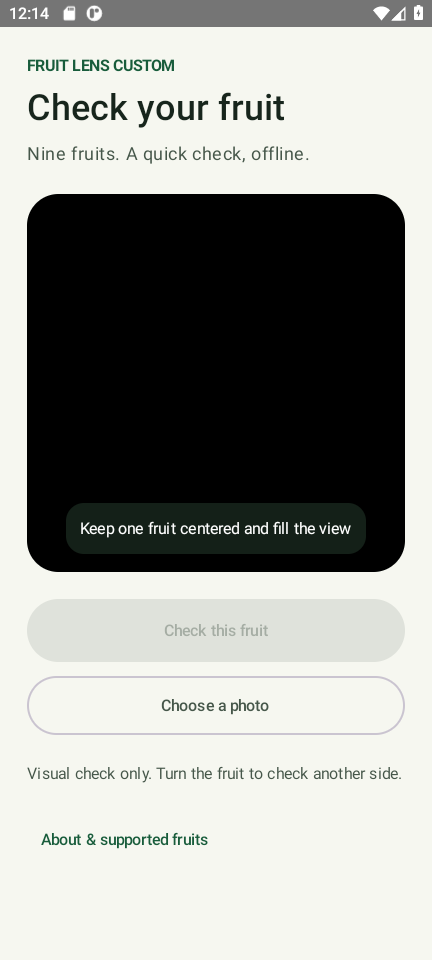
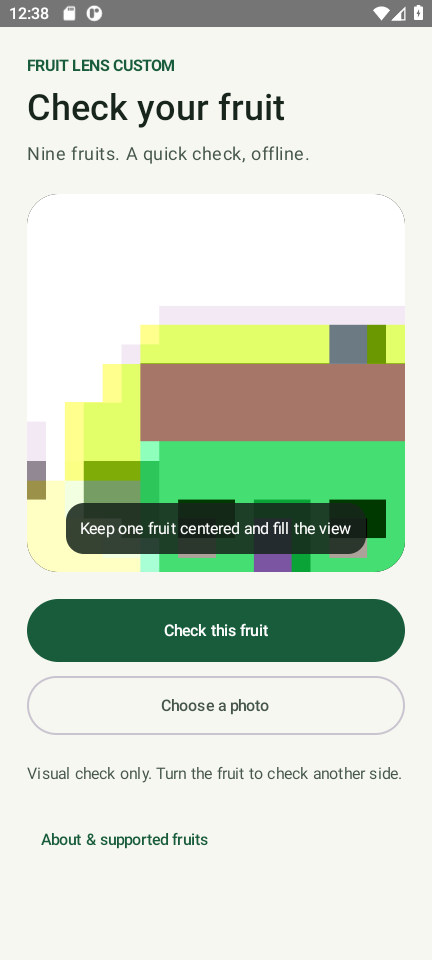
feat(android): label fruit regions and freshness

diff --git a/apps/02-fruit-lens-custom/android/app/src/main/java/com/fruitlens/app/MainActivity.kt b/apps/02-fruit-lens-custom/android/app/src/main/java/com/fruitlens/app/MainActivity.kt
@@ -30,12 +30,19 @@ import androidx.compose.ui.draw.clip
 import androidx.compose.ui.graphics.Color
 import androidx.compose.ui.graphics.asImageBitmap
 import androidx.compose.ui.graphics.drawscope.Stroke
+import androidx.compose.ui.graphics.drawscope.drawIntoCanvas
+import androidx.compose.ui.graphics.nativeCanvas
+import androidx.compose.ui.graphics.toArgb
+import androidx.compose.ui.graphics.luminance
+import androidx.compose.ui.semantics.semantics
+import androidx.compose.ui.semantics.contentDescription
 import androidx.compose.ui.geometry.Offset
 import androidx.compose.ui.geometry.Size
 import androidx.compose.ui.layout.ContentScale
 import androidx.compose.ui.platform.LocalContext
 import androidx.compose.ui.text.font.FontWeight
 import androidx.compose.ui.unit.dp
+import androidx.compose.ui.unit.sp
 import androidx.compose.ui.viewinterop.AndroidView
 import androidx.core.content.ContextCompat
 import androidx.lifecycle.compose.LocalLifecycleOwner
@@ -122,15 +129,38 @@ private fun ScannerScreen(model: ScannerViewModel = viewModel()) {
                             val photo = state.photo!!
                             Image(photo.asImageBitmap(), contentDescription = "Captured fruit photo with detected regions",
                                 contentScale = ContentScale.Fit, modifier = Modifier.fillMaxSize())
-                            Canvas(Modifier.fillMaxSize()) {
+                            Canvas(Modifier.fillMaxSize().semantics {
+                                contentDescription = state.results.joinToString("; ") {
+                                    "Fruit #${it.id}, ${it.detection.fruit}, ${FreshnessDisplay.assessment(it)}"
+                                }
+                            }) {
                                 val scale = minOf(size.width / photo.width, size.height / photo.height)
                                 val width = photo.width * scale
                                 val height = photo.height * scale
                                 val offset = Offset((size.width - width) / 2, (size.height - height) / 2)
                                 state.results.forEach {
                                     val b = it.detection.bounds
-                                    drawRect(Color(0xFF9AD5B3), offset + Offset(b.left * width, b.top * height),
+                                    val tint = Color(FreshnessDisplay.tint(it))
+                                    val origin = offset + Offset(b.left * width, b.top * height)
+                                    drawRect(tint, origin,
                                         Size(b.width() * width, b.height() * height), style = Stroke(3.dp.toPx()))
+                                    val label = "#${it.id}"
+                                    val paint = android.graphics.Paint(android.graphics.Paint.ANTI_ALIAS_FLAG).apply {
+                                        textSize = 14.sp.toPx()
+                                        typeface = android.graphics.Typeface.DEFAULT_BOLD
+                                        color = if (tint.luminance() > 0.35f) android.graphics.Color.BLACK else android.graphics.Color.WHITE
+                                    }
+                                    val padding = 6.dp.toPx()
+                                    val badgeWidth = paint.measureText(label) + 2 * padding
+                                    val badgeHeight = paint.fontSpacing + 2 * padding
+                                    val x = origin.x.coerceIn(0f, (size.width - badgeWidth).coerceAtLeast(0f))
+                                    val y = origin.y.coerceIn(0f, (size.height - badgeHeight).coerceAtLeast(0f))
+                                    drawIntoCanvas { canvas ->
+                                        val background = android.graphics.Paint(android.graphics.Paint.ANTI_ALIAS_FLAG).apply { color = tint.toArgb() }
+                                        canvas.nativeCanvas.drawRoundRect(x, y, x + badgeWidth, y + badgeHeight,
+                                            5.dp.toPx(), 5.dp.toPx(), background)
+                                        canvas.nativeCanvas.drawText(label, x + padding, y + padding - paint.fontMetrics.top, paint)
+                                    }
                                 }
                             }
                         }
@@ -153,6 +183,8 @@ private fun ScannerScreen(model: ScannerViewModel = viewModel()) {
                 }
 
                 ScanResults(state)
+                if (state.results.isNotEmpty()) Text("Match each #ID to its card. Green: Fresh · Red: Not fresh · Gray: Uncertain. Color follows model scores, not a measured freshness percentage.",
+                    style = MaterialTheme.typography.bodySmall, color = MaterialTheme.colorScheme.onSurfaceVariant)
 
                 Column(verticalArrangement = Arrangement.spacedBy(12.dp)) {
                     Button(
@@ -220,12 +252,23 @@ private fun ScanResults(state: ScannerState) {
         val agreement = result.label.fruit == detected.detection.fruit
         val confident = agreement && result.confident
         val fruit = detected.detection.fruit.replaceFirstChar { it.uppercase() }
-        val assessment = if (confident) {
-            if (result.label.condition == "fresh") "Fresh" else "Not fresh"
-        } else "Uncertain"
+        val assessment = FreshnessDisplay.assessment(detected)
         val detail = if (confident) "Visual estimate. Check another side to get a clearer view."
             else "Try a closer photo with the whole fruit in even light."
-        InfoCard("$fruit - $assessment", detail)
+        Surface(shape = RoundedCornerShape(24.dp), color = MaterialTheme.colorScheme.surface,
+            modifier = Modifier.fillMaxWidth()) {
+            Row(Modifier.padding(24.dp), horizontalArrangement = Arrangement.spacedBy(12.dp)) {
+                Surface(color = Color(FreshnessDisplay.tint(detected)), shape = RoundedCornerShape(8.dp)) {
+                    val tint = Color(FreshnessDisplay.tint(detected))
+                    Text("#${detected.id}", Modifier.padding(8.dp), fontWeight = FontWeight.Bold,
+                        color = if (tint.luminance() > 0.35f) Color.Black else Color.White)
+                }
+                Column(verticalArrangement = Arrangement.spacedBy(8.dp)) {
+                    Text("$fruit - $assessment", style = MaterialTheme.typography.titleLarge, fontWeight = FontWeight.SemiBold)
+                    Text(detail, color = MaterialTheme.colorScheme.onSurfaceVariant)
+                }
+            }
+        }
     }
 }
 

diff --git a/apps/02-fruit-lens-custom/android/app/src/androidTest/java/com/fruitlens/app/InferenceSmokeTest.kt b/apps/02-fruit-lens-custom/android/app/src/androidTest/java/com/fruitlens/app/InferenceSmokeTest.kt
@@ -9,6 +9,7 @@ import android.os.ParcelFileDescriptor
 import androidx.compose.ui.test.assertIsEnabled
 import androidx.compose.ui.test.junit4.createEmptyComposeRule
 import androidx.compose.ui.test.onNodeWithText
+import androidx.compose.ui.test.onNodeWithContentDescription
 import androidx.compose.ui.test.performClick
 import androidx.compose.ui.test.captureToImage
 import androidx.compose.ui.test.onRoot
@@ -97,12 +98,38 @@ class InferenceSmokeTest {
             // The Compose test clock must render the asynchronous worker's result before capture.
             compose.waitForIdle()
             compose.onNodeWithText("Your scan").assertExists()
+            assertEquals((1..model.state.value.results.size).toList(), model.state.value.results.map { it.id })
+            compose.onNodeWithText("#1").assertExists()
             compose.onRoot().captureToImage().asAndroidBitmap().useBitmap { screenshot ->
                 File(instrumentation.targetContext.filesDir, "smoke-result.png").outputStream().use {
                     screenshot.compress(Bitmap.CompressFormat.PNG, 100, it)
                 }
             }
             Log.i("FruitLensTest", "pipelineProcessingMs=${model.state.value.processingMs}")
+        }
+    }
+
+    @Test fun multipleFruitIdsMatchOverlayAndCards() {
+        ActivityScenario.launch(MainActivity::class.java).use { scenario ->
+            lateinit var model: ScannerViewModel
+            scenario.onActivity { model = ViewModelProvider(it)[ScannerViewModel::class.java] }
+            compose.waitUntil(timeoutMillis = 30_000) { model.state.value.ready }
+            val file = File(instrumentation.targetContext.cacheDir, "two-bananas.png")
+            instrumentation.context.assets.open("two-bananas.png").use { input -> file.outputStream().use(input::copyTo) }
+            scenario.onActivity { assertTrue(model.beginCapture()); model.classify(Uri.fromFile(file), deleteAfter = true) }
+            compose.waitUntil(timeoutMillis = 30_000) { !model.state.value.busy }
+            val results = model.state.value.results
+            assertTrue("Should find both separate banana regions", results.size >= 2)
+            assertEquals((1..results.size).toList(), results.map { it.id })
+            compose.onNodeWithText("#1").assertExists()
+            compose.onNodeWithText("#2").assertExists()
+            val description = results.joinToString("; ") { "Fruit #${it.id}, ${it.detection.fruit}, ${FreshnessDisplay.assessment(it)}" }
+            compose.onNodeWithContentDescription(description).assertExists()
+            compose.onRoot().captureToImage().asAndroidBitmap().useBitmap { screenshot ->
+                File(instrumentation.targetContext.filesDir, "multi-fruit-result.png").outputStream().use {
+                    screenshot.compress(Bitmap.CompressFormat.PNG, 100, it)
+                }
+            }
         }
     }
 

diff --git a/apps/02-fruit-lens-custom/android/app/src/main/java/com/fruitlens/app/ScannerViewModel.kt b/apps/02-fruit-lens-custom/android/app/src/main/java/com/fruitlens/app/ScannerViewModel.kt
@@ -26,7 +26,7 @@ data class ScannerState(
     val processingMs: Long = 0,
 )
 
-data class DetectedResult(val detection: FruitDetection, val classification: ScanResult)
+data class DetectedResult(val detection: FruitDetection, val classification: ScanResult, val id: Int = 0)
 
 class ScannerViewModel(application: Application) : AndroidViewModel(application) {
     private val worker = Executors.newSingleThreadExecutor()
@@ -104,9 +104,10 @@ class ScannerViewModel(application: Application) : AndroidViewModel(application)
                         DetectedResult(detection, classification.copy(accepted = classification.accepted && classification.label.fruit == detection.fruit))
                     } finally { if (crop !== photo) crop.recycle() }
                 }
+                val numbered = results.mapIndexed { index, result -> result.copy(id = index + 1) }
                 mutableState.value = mutableState.value.copy(busy = false,
                     message = if (results.isEmpty()) "No supported fruit was found clearly enough. Move closer in even light. Supported: apple, banana, grape, lemon, mango, orange, pomegranate, strawberry and tomato." else null,
-                    results = results, photo = photo, processingMs = (System.nanoTime() - start) / 1_000_000)
+                    results = numbered, photo = photo, processingMs = (System.nanoTime() - start) / 1_000_000)
                 bitmap = null // State owns this image until replaced; allow GC instead of recycling a displayed bitmap.
             } catch (error: Exception) {
                 reportError("Couldn't assess this photo. ${error.message ?: "Try a clearer image."}")

diff --git a/apps/02-fruit-lens-custom/android/app/src/main/java/com/fruitlens/app/FreshnessClassifier.kt b/apps/02-fruit-lens-custom/android/app/src/main/java/com/fruitlens/app/FreshnessClassifier.kt
@@ -9,7 +9,8 @@ import java.nio.ByteBuffer
 import java.nio.ByteOrder
 import java.security.MessageDigest
 
-data class ScanResult(val label: FruitLabel, val score: Float, val accepted: Boolean, val processingMs: Long, val confident: Boolean = false)
+data class ScanResult(val label: FruitLabel, val score: Float, val accepted: Boolean, val processingMs: Long,
+    val confident: Boolean = false, val freshScore: Float? = null)
 
 /** Owned by one worker thread. Models and tensor buffers are reused between scans. */
 class FreshnessClassifier(context: Context) : AutoCloseable {
@@ -81,9 +82,14 @@ class FreshnessClassifier(context: Context) : AutoCloseable {
             }
             val scores = ScoreMath.probabilities(values, spec.scoreType == "logits")
             val best = scores.indices.maxBy { scores[it] }
+            val fruit = spec.labels[best].fruit
+            val fresh = spec.labels.indexOfFirst { it.fruit == fruit && it.condition == "fresh" }
+            val notFresh = spec.labels.indexOfFirst { it.fruit == fruit && it.condition == "spoiled" }
+            val freshScore = if (fresh >= 0 && notFresh >= 0)
+                ScoreMath.freshScore(scores[fresh], scores[notFresh]) else null
             return ScanResult(spec.labels[best], scores[best],
                 spec.thresholdValidated && scores[best] >= spec.minScore,
-                (System.nanoTime() - start) / 1_000_000, scores[best] >= spec.minScore)
+                (System.nanoTime() - start) / 1_000_000, scores[best] >= spec.minScore, freshScore)
         } finally {
             if (resized !== bitmap) resized.recycle()
         }

diff --git a/apps/02-fruit-lens-custom/android/app/src/main/java/com/fruitlens/app/FreshnessDisplay.kt b/apps/02-fruit-lens-custom/android/app/src/main/java/com/fruitlens/app/FreshnessDisplay.kt
@@ -1,0 +1,30 @@
+package com.fruitlens.app
+
+import kotlin.math.roundToInt
+
+/** Pure display rules shared by the image overlay and its matching detail card. */
+object FreshnessDisplay {
+    const val NEUTRAL: Int = -10193781 // #64748B
+    private val red = intArrayOf(198, 40, 40)
+    private val amber = intArrayOf(249, 168, 37)
+    private val green = intArrayOf(46, 125, 50)
+
+    fun tint(freshScore: Float?, confident: Boolean, identityAgrees: Boolean): Int {
+        if (!confident || !identityAgrees || freshScore == null || !freshScore.isFinite() || freshScore !in 0f..1f)
+            return NEUTRAL
+        val start = if (freshScore < 0.5f) red else amber
+        val end = if (freshScore < 0.5f) amber else green
+        val fraction = if (freshScore < 0.5f) freshScore * 2 else (freshScore - 0.5f) * 2
+        val channels = IntArray(3) { (start[it] + (end[it] - start[it]) * fraction).roundToInt() }
+        return (0xFF shl 24) or (channels[0] shl 16) or (channels[1] shl 8) or channels[2]
+    }
+
+    fun tint(result: DetectedResult) = tint(result.classification.freshScore,
+        result.classification.confident, result.classification.label.fruit == result.detection.fruit)
+
+    fun assessment(result: DetectedResult): String = when {
+        !result.classification.confident || result.classification.label.fruit != result.detection.fruit -> "Uncertain"
+        result.classification.label.condition == "fresh" -> "Fresh"
+        else -> "Not fresh"
+    }
+}

diff --git a/apps/02-fruit-lens-custom/android/app/src/test/java/com/fruitlens/app/FreshnessDisplayTest.kt b/apps/02-fruit-lens-custom/android/app/src/test/java/com/fruitlens/app/FreshnessDisplayTest.kt
@@ -1,0 +1,25 @@
+package com.fruitlens.app
+
+import org.junit.Assert.*
+import org.junit.Test
+
+class FreshnessDisplayTest {
+    @Test fun usesSameFruitPairRatherThanWinningClassConfidence() {
+        assertEquals(0.9f, ScoreMath.freshScore(0.09f, 0.01f)!!, 0.00001f)
+        assertEquals(0.1f, ScoreMath.freshScore(0.01f, 0.09f)!!, 0.00001f)
+        assertNull(ScoreMath.freshScore(0f, 0f))
+        assertNull(ScoreMath.freshScore(Float.NaN, 1f))
+    }
+    @Test fun paletteRunsFromRedThroughAmberToGreen() {
+        assertEquals(0xFFC62828.toInt(), FreshnessDisplay.tint(0f, true, true))
+        assertEquals(0xFFF9A825.toInt(), FreshnessDisplay.tint(0.5f, true, true))
+        assertEquals(0xFF2E7D32.toInt(), FreshnessDisplay.tint(1f, true, true))
+        assertNotEquals(FreshnessDisplay.tint(0.9f, true, true), FreshnessDisplay.tint(0.1f, true, true))
+    }
+    @Test fun uncertainOrInvalidAssessmentsStayNeutral() {
+        assertEquals(FreshnessDisplay.NEUTRAL, FreshnessDisplay.tint(1f, false, true))
+        assertEquals(FreshnessDisplay.NEUTRAL, FreshnessDisplay.tint(1f, true, false))
+        assertEquals(FreshnessDisplay.NEUTRAL, FreshnessDisplay.tint(null, true, true))
+        assertEquals(FreshnessDisplay.NEUTRAL, FreshnessDisplay.tint(Float.NaN, true, true))
+    }
+}

diff --git a/apps/02-fruit-lens-custom/android/app/src/main/java/com/fruitlens/app/ScoreMath.kt b/apps/02-fruit-lens-custom/android/app/src/main/java/com/fruitlens/app/ScoreMath.kt
@@ -5,6 +5,12 @@ import kotlin.math.roundToInt
 
 /** Shared numerical contract; no Android APIs so these checks can run on the JVM. */
 object ScoreMath {
+    /** Relative Fresh vs Not fresh score for one fruit, not a freshness percentage. */
+    fun freshScore(fresh: Float, notFresh: Float): Float? {
+        if (!fresh.isFinite() || !notFresh.isFinite() || fresh < 0f || notFresh < 0f) return null
+        val total = fresh + notFresh
+        return if (total.isFinite() && total > 0f) (fresh / total).coerceIn(0f, 1f) else null
+    }
     fun normalize(pixel: Int, mean: Float, std: Float): Float = (pixel - mean) / std
 
     fun quantize(real: Float, scale: Float, zeroPoint: Int, signed: Boolean): Int {

diff --git a/tools/verify_custom_app.py b/tools/verify_custom_app.py
@@ -7,7 +7,7 @@ REPORTS=APP/'verification'
 SDK=ROOT/'android/.tools/android-sdk/build-tools/36.0.0'
 def sha(p):return hashlib.sha256(p.read_bytes()).hexdigest()
 def main():
-    apk=APP/'apk/Fruit-Lens-Custom-v1-arm64.apk'
+    apk=APP/'apk/Fruit-Lens-Custom-v1.1-arm64.apk'
     bundle=json.loads((APP/'MODEL_BUNDLE.json').read_text())
     with zipfile.ZipFile(apk) as z:
         for name,record in bundle['files'].items():
@@ -21,20 +21,23 @@ def main():
         (REPORTS/filename).write_text(p.stdout+p.stderr,encoding='utf-8')
     badging=(REPORTS/'apk-badging.txt').read_text()
     assert "name='com.fruitlens.custom'" in badging
+    assert "versionName='1.1.0-custom'" in badging and "versionCode='2'" in badging
     assert "application-label:'Fruit Lens Custom'" in badging
     assert "minSdkVersion:'26'" in badging
     assert 'android.permission.INTERNET' not in badging
     assert "native-code: 'arm64-v8a'" in badging
-    assert 'OK (5 tests)' in (REPORTS/'instrumentation.txt').read_text()
+    assert 'OK (6 tests)' in (REPORTS/'instrumentation.txt').read_text()
     assert json.loads((REPORTS/'internal-smoke.json').read_text())['passed']
     tree=ET.parse(APP/'android/app/build/test-results/testDebugUnitTest/TEST-com.fruitlens.app.ScoreMathTest.xml').getroot()
     assert tree.get('failures')=='0' and tree.get('errors')=='0'
+    display=ET.parse(APP/'android/app/build/test-results/testDebugUnitTest/TEST-com.fruitlens.app.FreshnessDisplayTest.xml').getroot()
+    assert display.get('failures')=='0' and display.get('errors')=='0'
     import sys
     p=subprocess.run([sys.executable,str(ROOT/'apps/01-fruit-lens-classic/verify_snapshot.py')],capture_output=True,text=True,check=True)
     (REPORTS/'classic-preservation.txt').write_text(p.stdout)
     for entry in json.loads((ROOT/'models/catalog.json').read_text()):
         for name,record in entry['files'].items():assert sha(ROOT/'models'/entry['version']/name)==record['sha256']
-    metadata=dict(edition='Fruit Lens Custom',applicationId='com.fruitlens.custom',sourceNamespace='com.fruitlens.app',versionName='1.0.0-custom',versionCode=1,detector='yolov8n-fruit9-v2',classifier='mobilenetv3small-fruit9-v1',inference_backend='CPU',threads_per_model=2,GPU=False,NPU=False,apk=dict(path=apk.relative_to(APP).as_posix(),bytes=apk.stat().st_size,sha256=sha(apk),signing='local development key; verified, not Play Store signing'),models=bundle['files'],verification=dict(JVM_tests=int(tree.get('tests')),Android_tests=5,Android_classifier_parity_cases=18,classic_snapshot_files=71,APK_identity_and_signature=True,APK_16KiB_alignment=True,packaged_model_hashes=True,all_catalog_hashes=True),phone_latency_measured=False,independent_camera_accuracy_validated=False)
+    metadata=dict(edition='Fruit Lens Custom',applicationId='com.fruitlens.custom',sourceNamespace='com.fruitlens.app',versionName='1.1.0-custom',versionCode=2,detector='yolov8n-fruit9-v2',classifier='mobilenetv3small-fruit9-v1',inference_backend='CPU',threads_per_model=2,GPU=False,NPU=False,apk=dict(path=apk.relative_to(APP).as_posix(),bytes=apk.stat().st_size,sha256=sha(apk),signing='local development key; verified, not Play Store signing'),models=bundle['files'],verification=dict(JVM_tests=int(tree.get('tests'))+int(display.get('tests')),Android_tests=6,Android_classifier_parity_cases=18,classic_snapshot_files=71,APK_identity_and_signature=True,APK_16KiB_alignment=True,packaged_model_hashes=True,all_catalog_hashes=True),phone_latency_measured=False,independent_camera_accuracy_validated=False)
     metadata['verification']['R8_internal_startup_and_capture'] = True
     (APP/'VERSION.json').write_text(json.dumps(metadata,indent=2),encoding='utf-8')
     (REPORTS/'summary.json').write_text(json.dumps(dict(passed=True,**metadata['verification'],note='Emulator execution and packaging evidence; not production accuracy or real-phone latency validation.'),indent=2),encoding='utf-8')

diff --git a/apps/02-fruit-lens-custom/run_release_smoke.py b/apps/02-fruit-lens-custom/run_release_smoke.py
@@ -9,18 +9,28 @@ def ui(name):
     (REPORTS/name).write_text(xml,encoding='utf-8')
     return ET.fromstring(xml)
 def main():
+    (REPORTS/'internal-smoke.json').write_text(json.dumps(dict(passed=False,stage='running')))
     print(adb('install','-r',str(APP/'android/app/build/outputs/apk/internal/app-x86_64-internal.apk')))
     adb('shell','pm','grant','com.fruitlens.custom','android.permission.CAMERA')
     adb('shell','am','force-stop','com.fruitlens.custom')
     print(adb('shell','am','start','-W','-n','com.fruitlens.custom/com.fruitlens.app.MainActivity'))
-    time.sleep(3)
-    tree=ui('internal-startup.xml')
-    button=next(n for n in tree.iter('node') if n.get('text')=='Check this fruit' and n.get('enabled')=='true')
+    deadline=time.monotonic()+45
+    button=None
+    while time.monotonic()<deadline:
+        tree=ui('internal-startup.xml')
+        button=next((n for n in tree.iter('node') if n.get('enabled')=='true' and n.get('clickable')=='true'
+            and any(child.get('text')=='Check this fruit' for child in n.iter('node'))),None)
+        if button is not None:break
+        time.sleep(1)
+    assert button is not None,'Camera scan button did not become enabled'
     (REPORTS/'internal-startup.png').write_bytes(adb('exec-out','screencap','-p',binary=True))
     bounds=[int(v) for v in re.findall(r'\d+',button.get('bounds'))]
     adb('shell','input','tap',str((bounds[0]+bounds[2])//2),str((bounds[1]+bounds[3])//2))
-    time.sleep(3)
-    tree=ui('internal-camera-result.xml')
+    deadline=time.monotonic()+30
+    while time.monotonic()<deadline:
+        tree=ui('internal-camera-result.xml')
+        if any(n.get('text')=='Your scan' for n in tree.iter('node')):break
+        time.sleep(1)
     assert any(n.get('text')=='Your scan' for n in tree.iter('node'))
     (REPORTS/'internal-camera-result.png').write_bytes(adb('exec-out','screencap','-p',binary=True))
     packages=adb('shell','pm','list','packages','com.fruitlens')

diff --git a/apps/02-fruit-lens-custom/run_smoke_tests.py b/apps/02-fruit-lens-custom/run_smoke_tests.py
@@ -19,9 +19,10 @@ def main():
     (REPORTS/'instrumentation.txt').write_text(result)
     logs=adb('logcat','-d','-s','FruitLensTest:I','AndroidRuntime:E','*:S')
     (REPORTS/'inference-logcat.txt').write_text(logs)
-    assert 'OK (5 tests)' in result,result
+    assert 'OK (6 tests)' in result,result
     screenshot=adb('exec-out','run-as','com.fruitlens.custom','cat','files/smoke-result.png',binary=True)
     (REPORTS/'smoke-result.png').write_bytes(screenshot)
+    (REPORTS/'multi-fruit-result.png').write_bytes(adb('exec-out','run-as','com.fruitlens.custom','cat','files/multi-fruit-result.png',binary=True))
     packages=adb('shell','pm','list','packages','com.fruitlens')
     (REPORTS/'coinstallation.json').write_text(json.dumps(dict(packages=packages.splitlines(),custom_installed='package:com.fruitlens.custom' in packages,classic_installed='package:com.fruitlens.classic' in packages,note='Distinct IDs, no replacement of Classic'),indent=2))
     print(result,flush=True)

diff --git a/apps/02-fruit-lens-custom/CHANGELOG.md b/apps/02-fruit-lens-custom/CHANGELOG.md
@@ -1,0 +1,24 @@
+# Custom app updates
+
+## 1.1.0-custom, version code 2
+
+Install `apk/Fruit-Lens-Custom-v1.1-arm64.apk` to update Custom. The original v1 APK
+and its Git tag remain available. Classic is unchanged.
+
+Each displayed fruit region receives a photo-local ID, starting at #1. The same
+ID appears on its bounding box and on its detail card. IDs are assigned after
+tiny, unclassified regions have been filtered, so there are no gaps. They remain
+fixed while viewing that result and restart on the next photo. These are not
+persistent video-tracking IDs or reliable counts of individual fruit in bunches.
+
+Boxes and card ID badges share one color rule: red through amber to green using
+the classifier's relative Fresh / (Fresh + Not fresh) score for the predicted
+fruit. Low-confidence, missing/invalid scores or detector/classifier identity
+disagreement use neutral gray and Uncertain. Text labels remain visible so the
+interface does not rely on red/green perception alone. The color is a model-score
+visualization, not a measured percentage of remaining freshness or shelf life.
+
+Model weights, input preprocessing, CPU backends and inference thresholds are
+unchanged. Regression checks cover score normalization, color endpoints,
+uncertain cases, actual two-fruit detection, matching overlay/card IDs, all 18
+classifier outputs, camera capture, and the optimized internal build.

diff --git a/apps/02-fruit-lens-custom/android/app/src/androidTest/assets/ATTRIBUTION.md b/apps/02-fruit-lens-custom/android/app/src/androidTest/assets/ATTRIBUTION.md
@@ -4,3 +4,5 @@ Original: https://upload.wikimedia.org/wikipedia/commons/8/8a/Banana-Single.jpg
 License: Creative Commons Attribution-ShareAlike 3.0 Unported, https://creativecommons.org/licenses/by-sa/3.0/
 Downloaded unchanged for an inference smoke test. Not packaged in the application APK.
 This is one illustrative fixture, not a fruit-condition evaluation dataset.
+
+Additional test fixture two-bananas.png: resized and duplicated composition of the same Evan-Amos photograph on a white background, created for the multi-region ID test. This derivative is also CC BY-SA 3.0 and is packaged only in the test APK.
